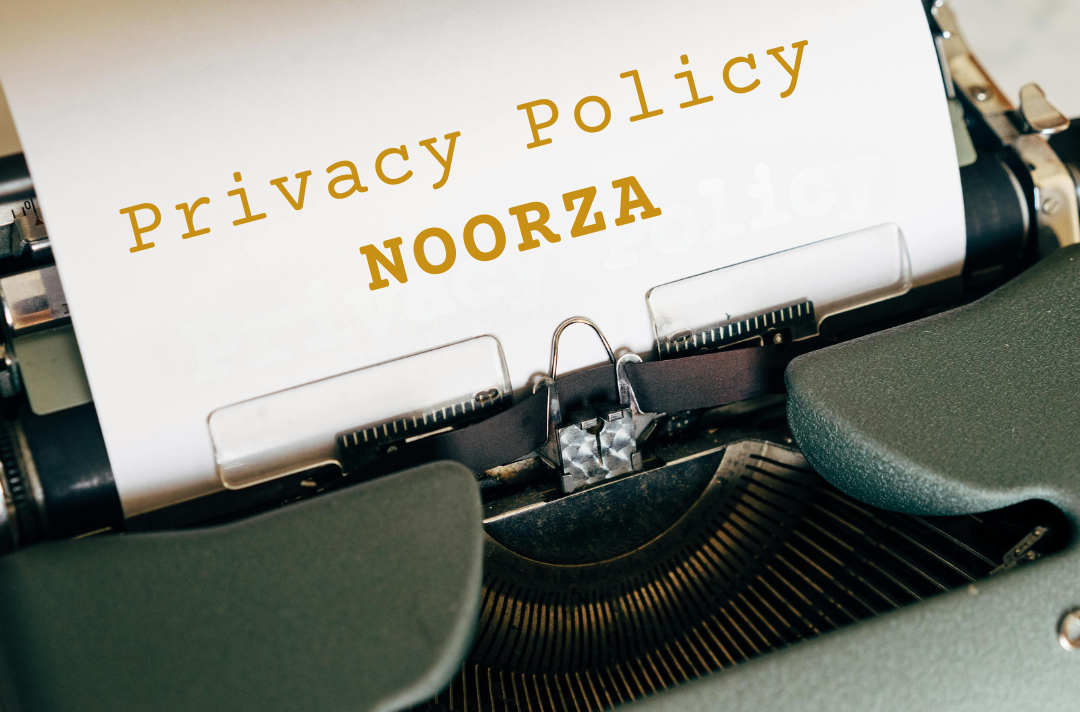
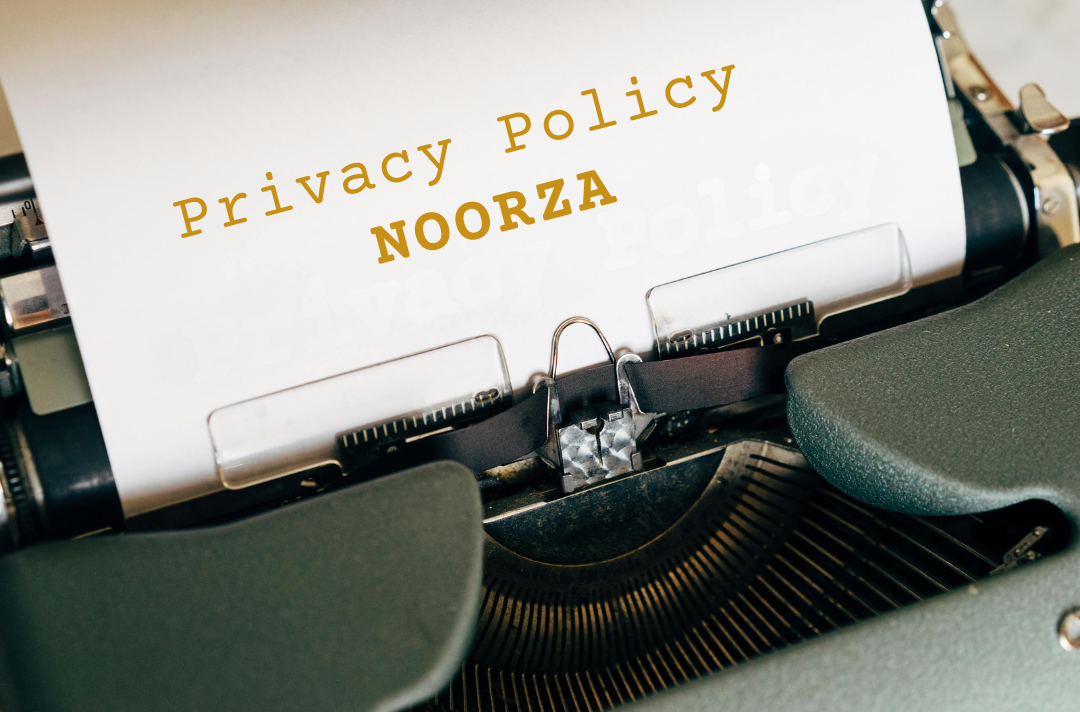
privacy

Changed region(s): [[0.0917, 0.1854, 0.6111, 0.4017], [0.4583, 0.0618, 0.7639, 0.2163]]

diff --git a/FrontEnd/src/assets/assets.js b/FrontEnd/src/assets/assets.js
@@ -24,7 +24,7 @@ import Product_20 from './Product_20.png'
 
 import Noorza from "./Noorza.png"
 import Delivery from './Delivery.png'
-import PrivacyP from './PrivacyP.png'
+import Privacy from './Privacy.png'
 import Refund from './Refund.png'
 import hero_img from './hero_img.png'
 import cart_icon from './cart_icon.png'
@@ -67,7 +67,7 @@ export const assets = {
   Product_20,
   Noorza,
   Delivery,
-  PrivacyP,
+  Privacy,
   Refund,
   hero_img,
   cart_icon,

diff --git a/FrontEnd/src/Pages/PrivacyPolicy.jsx b/FrontEnd/src/Pages/PrivacyPolicy.jsx
@@ -13,7 +13,7 @@ const PrivacyPolicy = () => {
     
       <div className="flex flex-col sm:flex-row items-center gap-10">
         <div className="w-full sm:w-1/2">
-          <img src={assets.PrivacyP}alt="Privacy Policy"className="w-full h-[26rem] sm:h-[32rem] object-cover rounded-lg shadow-md"/>
+          <img src={assets.Privacy}alt="Privacy Policy"className="w-full h-[26rem] sm:h-[32rem] object-cover rounded-lg shadow-md"/>
         </div>
 
 